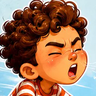
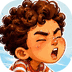
Make the Aaru tile a plain image, and shrink it
The card was the only one not loading. The file itself was fine - served 200
as image/svg+xml with the xlink namespace declared, and it rendered here both
inline and through an <img> - so the fault was somewhere between the output
branch and the page, and guessing which part was not worth another round trip.
Every way it differed from its eight working siblings is gone:

  size       32KB against their 4KB, now 18KB. The artwork is 72px instead of
             96 and quantised to 96 colours, which at a 46px tile is still
             oversampled - checked at that size, not enlarged.
  clip-path  gone. The rounded corner is baked into the file's own alpha.
  <defs>     gone. There is no longer a second defs block halfway down the
             document; the tile is one <image> and a hairline.

Cards move to rev c as well, because camo will have cached whatever it made of
the b URL, and a fresh address is the only way past that.

diff --git a/.github/scripts/make_stats.py b/.github/scripts/make_stats.py
@@ -448,13 +448,11 @@ def _tile(x, y, repo, tint):
     photo = ICON_PHOTO.get(repo)
     uri = _photo_uri(photo) if photo else ""
     if uri:
-        # slice, not fit: the crop is already square, and slice guarantees the
-        # rounded corner is covered even if a future crop is not.
-        cid = "tile%d-%d" % (x, y)
-        return (f'<defs><clipPath id="{cid}">'
-                f'<rect x="{x}" y="{y}" width="46" height="46" rx="12"/></clipPath></defs>'
-                f'<image xlink:href="{uri}" x="{x}" y="{y}" width="46" height="46"'
-                f' preserveAspectRatio="xMidYMid slice" clip-path="url(#{cid})"/>'
+        # The rounded corner is baked into the file's alpha, so this needs no
+        # clipPath and no second <defs> halfway down the document.  One <image>
+        # and a hairline is the whole tile - fewer things for anything between
+        # here and the page to object to.
+        return (f'<image xlink:href="{uri}" x="{x}" y="{y}" width="46" height="46"/>'
                 f'<rect x="{x}" y="{y}" width="46" height="46" rx="12" fill="none"'
                 f' stroke="#FFFFFF" stroke-opacity=".18"/>')
     art = ICONS.get(repo)
@@ -476,7 +474,7 @@ CW, CH = 566, 152
 # change but whose name does not keeps serving whatever was fetched first, no
 # matter how many times CI rebuilds it.  Renaming the file is the only thing
 # that actually reaches anyone who has already loaded the page.
-CARD_REV = "b"
+CARD_REV = "c"
 
 
 def _card(i, repo, title, tag, blurb, meta, x=2, y=2):

diff --git a/readme.md b/readme.md
@@ -28,23 +28,23 @@
 
 <table>
 <tr>
-<td width="50%"><a href="https://fln-animation-toolkit.vercel.app"><img src="https://raw.githubusercontent.com/ananya-goswami/ananya-goswami/output/proj-b-fln-animation-toolkit.svg" width="100%" alt="FLN Animation Kit" /></a></td>
-<td width="50%"><a href="https://aaru-ki-cheenk.vercel.app"><img src="https://raw.githubusercontent.com/ananya-goswami/ananya-goswami/output/proj-b-aaru_ki_cheenk.svg" width="100%" alt="Aaru Ki Cheenk" /></a></td>
+<td width="50%"><a href="https://fln-animation-toolkit.vercel.app"><img src="https://raw.githubusercontent.com/ananya-goswami/ananya-goswami/output/proj-c-fln-animation-toolkit.svg" width="100%" alt="FLN Animation Kit" /></a></td>
+<td width="50%"><a href="https://aaru-ki-cheenk.vercel.app"><img src="https://raw.githubusercontent.com/ananya-goswami/ananya-goswami/output/proj-c-aaru_ki_cheenk.svg" width="100%" alt="Aaru Ki Cheenk" /></a></td>
 </tr>
 <tr>
-<td width="50%"><a href="https://ch1-keywords-mocha.vercel.app"><img src="https://raw.githubusercontent.com/ananya-goswami/ananya-goswami/output/proj-b-Keyword-class9.svg" width="100%" alt="Spot the Scam" /></a></td>
-<td width="50%"><a href="https://feeling-wheel-tap.vercel.app"><img src="https://raw.githubusercontent.com/ananya-goswami/ananya-goswami/output/proj-b-feeling-wheel-tap.svg" width="100%" alt="Feeling Wheel Tap" /></a></td>
+<td width="50%"><a href="https://ch1-keywords-mocha.vercel.app"><img src="https://raw.githubusercontent.com/ananya-goswami/ananya-goswami/output/proj-c-Keyword-class9.svg" width="100%" alt="Spot the Scam" /></a></td>
+<td width="50%"><a href="https://feeling-wheel-tap.vercel.app"><img src="https://raw.githubusercontent.com/ananya-goswami/ananya-goswami/output/proj-c-feeling-wheel-tap.svg" width="100%" alt="Feeling Wheel Tap" /></a></td>
 </tr>
 <tr>
-<td width="50%"><a href="https://think-ask-act-builder.vercel.app"><img src="https://raw.githubusercontent.com/ananya-goswami/ananya-goswami/output/proj-b-think-ask-act.svg" width="100%" alt="Think Ask Act" /></a></td>
-<td width="50%"><a href="https://real-or-fake-sender.vercel.app"><img src="https://raw.githubusercontent.com/ananya-goswami/ananya-goswami/output/proj-b-real-or-fake-sender.svg" width="100%" alt="Real or Fake Sender" /></a></td>
+<td width="50%"><a href="https://think-ask-act-builder.vercel.app"><img src="https://raw.githubusercontent.com/ananya-goswami/ananya-goswami/output/proj-c-think-ask-act.svg" width="100%" alt="Think Ask Act" /></a></td>
+<td width="50%"><a href="https://real-or-fake-sender.vercel.app"><img src="https://raw.githubusercontent.com/ananya-goswami/ananya-goswami/output/proj-c-real-or-fake-sender.svg" width="100%" alt="Real or Fake Sender" /></a></td>
 </tr>
 <tr>
-<td width="50%"><a href="https://calm-or-react.vercel.app"><img src="https://raw.githubusercontent.com/ananya-goswami/ananya-goswami/output/proj-b-calm-or-react.svg" width="100%" alt="Calm or React" /></a></td>
-<td width="50%"><a href="https://ananya-goswami.github.io/Competition-Zone/"><img src="https://raw.githubusercontent.com/ananya-goswami/ananya-goswami/output/proj-b-Competition-Zone.svg" width="100%" alt="Competition Zone" /></a></td>
+<td width="50%"><a href="https://calm-or-react.vercel.app"><img src="https://raw.githubusercontent.com/ananya-goswami/ananya-goswami/output/proj-c-calm-or-react.svg" width="100%" alt="Calm or React" /></a></td>
+<td width="50%"><a href="https://ananya-goswami.github.io/Competition-Zone/"><img src="https://raw.githubusercontent.com/ananya-goswami/ananya-goswami/output/proj-c-Competition-Zone.svg" width="100%" alt="Competition Zone" /></a></td>
 </tr>
 <tr>
-<td width="50%"><a href="https://ananya-goswami.github.io/Portfolio/"><img src="https://raw.githubusercontent.com/ananya-goswami/ananya-goswami/output/proj-b-Portfolio.svg" width="100%" alt="Portfolio" /></a></td>
+<td width="50%"><a href="https://ananya-goswami.github.io/Portfolio/"><img src="https://raw.githubusercontent.com/ananya-goswami/ananya-goswami/output/proj-c-Portfolio.svg" width="100%" alt="Portfolio" /></a></td>
 <td width="50%"></td>
 </tr>
 </table>
